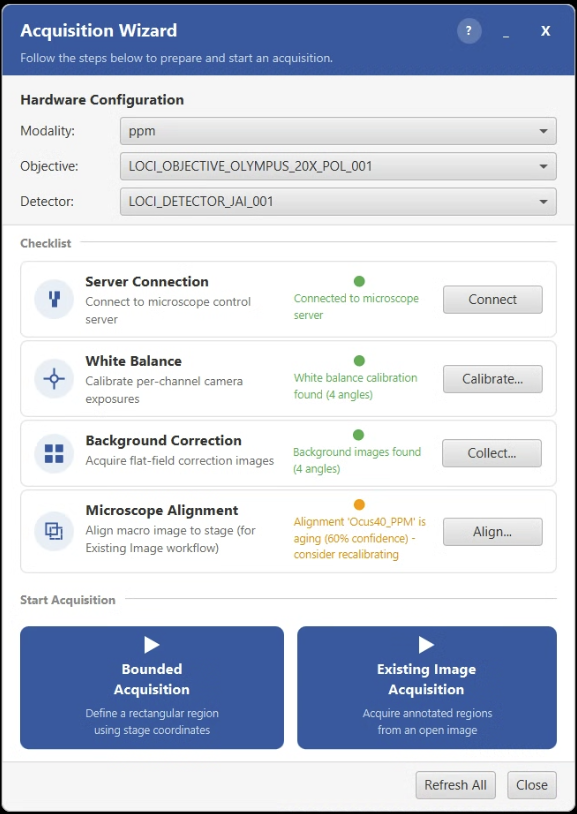
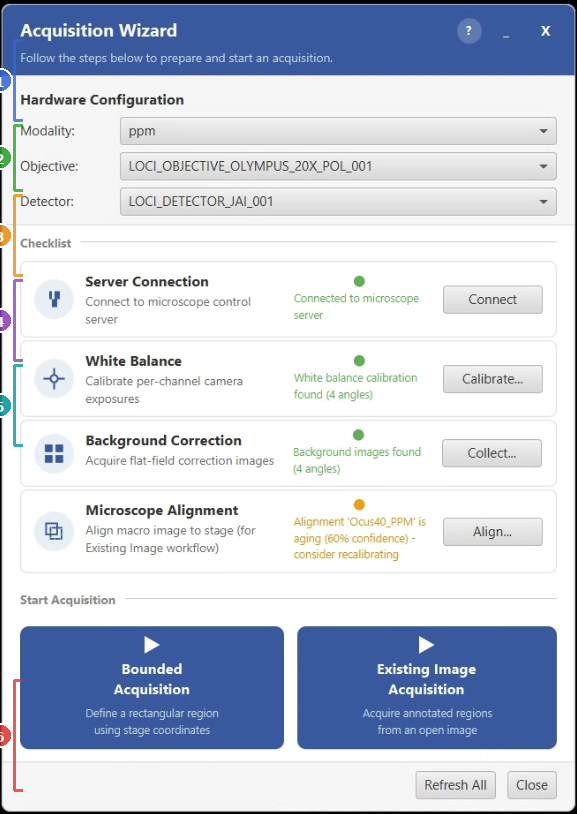
Add annotated screenshots with numbered sections/regions
Pillow-based annotation tool adds colored numbered markers to 4 key
dialog screenshots:
- Bounded Acquisition: 5 section brackets (Project, Hardware, Region, Advanced, Preview)
- Existing Image: 6 section brackets (Project, Hardware, Alignment, Refinement, Advanced, Preview)
- Acquisition Wizard: 6 section brackets (Hardware, Server, WB, Background, Alignment, Actions)
- Live Viewer: 5 region highlights with boxes (Toolbar, Image, Stage Control, Histogram, Status)

WORKFLOWS.md updated to reference section numbers inline.
Fixed image paths (../images/ -> images/).

Changed region(s): [[0.0, 0.0614, 0.0312, 0.5528], [0.0, 0.8292, 0.0312, 0.9828]]

diff --git a/documentation/WORKFLOWS.md b/documentation/WORKFLOWS.md
@@ -73,14 +73,14 @@ Go to *Extensions -> QP Scope -> Bounded Acquisition*.
 
 QPSC connects to the microscope server automatically. If the connection fails, you will see an error -- start the server and try again.
 
-![Bounded Acquisition dialog](images/Docs_BoundedAcquisition.png)
+![Bounded Acquisition dialog with numbered sections](images/Docs_BoundedAcquisition.png)
 
-**2. Configure sample and project.**
+**2. Configure sample and project (section 1).**
 
 - **Sample Name** -- Give your acquisition a name (e.g., "Kidney_Section_01"). This becomes the project folder name. Invalid characters and Windows reserved names are blocked automatically.
 - **Projects Folder** -- If no QuPath project is currently open, choose where to create one. If a project is already open, QPSC adds the new image to it.
 
-**3. Select hardware.**
+**3. Select hardware (section 2).**
 
 - **Modality** -- Choose the imaging mode (e.g., "ppm_20x" for polarized light, "bf_10x" for brightfield). The available options come from your YAML configuration.
 - **Objective** -- Filters based on the selected modality.
@@ -88,22 +88,20 @@ QPSC connects to the microscope server automatically. If the connection fails, y
 
 These selections determine the camera field of view, pixel size, and available rotation angles.
 
-**4. Define the acquisition region.**
+**4. Define the acquisition region (section 3).**
 
 Two input modes are available:
 
 - *Start Point + Size* -- Enter a starting X/Y position (in micrometers) and the width/height of the region. Click **Get Stage Position** to auto-fill the start coordinates from the current stage location.
 - *Two Corners* -- Enter the coordinates of two opposite corners of the rectangle.
 
-The dialog shows a real-time preview of the tile grid, including the number of tiles, estimated acquisition time, and storage size.
+**5. Configure white balance and advanced options (section 4).**
 
-**5. Configure white balance mode.**
+Select a white balance mode from the dropdown. Options depend on your camera and modality. For PPM with a JAI camera, "per_angle" is recommended. Expand the Advanced section to override individual rotation angles or exposure times.
 
-Select a white balance mode from the dropdown. Options depend on your camera and modality. For PPM with a JAI camera, "per_angle" is recommended.
+**6. Review the acquisition preview (section 5).**
 
-**6. (Optional) Adjust advanced settings.**
-
-Expand the Advanced section to override individual rotation angles or exposure times if needed for this specific acquisition.
+The bottom section shows the tile grid summary: number of tiles, estimated acquisition time, and storage size.
 
 **7. Click OK to start.**
 
@@ -116,7 +114,7 @@ QPSC will:
 - Automatically stitch tiles when acquisition finishes.
 - Add the stitched image to the QuPath project.
 
-![Acquisition progress dialog](../images/Docs_AcquisitionWorkflowProgress.png)
+![Acquisition progress dialog](images/Docs_AcquisitionWorkflowProgress.png)
 
 **8. Review the result.**
 
@@ -221,7 +219,7 @@ QPSC will:
 - Acquire tiles for each annotated region in sequence.
 - Stitch each region and add the result to the project.
 
-![Acquisition progress dialog](../images/Docs_AcquisitionWorkflowProgress.png)
+![Acquisition progress dialog](images/Docs_AcquisitionWorkflowProgress.png)
 
 **6. Review results.**
 
@@ -310,7 +308,7 @@ The menu item is only enabled when a macro image is available (either directly f
 
 A dialog asks which microscope/scanner produced the overview image. This selection determines where the alignment is saved and which hardware parameters are used.
 
-![Microscope selection dialog](../images/Docs_MicroscopeAlignment_SelectSourceMicroscope.png)
+![Microscope selection dialog](images/Docs_MicroscopeAlignment_SelectSourceMicroscope.png)
 
 **2. Configure sample details.**
 
@@ -393,7 +391,9 @@ These tools should be configured before your first acquisition. Most only need t
 
 A guided dashboard that checks all prerequisites and walks you through the setup process. It shows live status indicators for server connection, white balance calibration, background collection, and alignment. If anything is missing, click the step to launch the appropriate tool. When everything is green, launch Bounded Acquisition or Existing Image directly from the wizard.
 
-![Acquisition Wizard dashboard](../images/Docs_AcquisitionWizard.png)
+![Acquisition Wizard dashboard with numbered sections](images/Docs_AcquisitionWizard.png)
+
+The numbered sections are: **(1)** Hardware Configuration (modality, objective, detector), **(2)** Server Connection status, **(3)** White Balance calibration status, **(4)** Background Correction status, **(5)** Microscope Alignment status, and **(6)** Start buttons for Bounded Acquisition or Existing Image workflows. Click any section with a warning icon to launch the appropriate setup tool.
 
 Full documentation: [Acquisition Wizard](tools/acquisition-wizard.md)
 
@@ -403,7 +403,7 @@ Full documentation: [Acquisition Wizard](tools/acquisition-wizard.md)
 
 Configure and test the socket connection between QuPath and the microscope server. Set the host address and port, test connectivity, configure timeouts, and set up push notifications (via ntfy.sh) so you receive alerts when long acquisitions finish or fail.
 
-![Communication Settings dialog](../images/Docs_CommunicationSettings.png)
+![Communication Settings dialog](images/Docs_CommunicationSettings.png)
 
 Full documentation: [Communication Settings](tools/server-connection.md)
 
@@ -415,7 +415,7 @@ Captures flat-field correction images that remove uneven illumination from acqui
 
 Run this whenever you change objectives, detectors, or illumination settings.
 
-![Background Collection dialog](../images/Docs_BackgroundCollection.png)
+![Background Collection dialog](images/Docs_BackgroundCollection.png)
 
 Full documentation: [Background Collection](tools/background-collection.md)
 
@@ -430,7 +430,7 @@ Calibrate per-channel (R, G, B) exposure times for JAI 3-CCD prism cameras. Supp
 
 Results are saved to YAML and used automatically by Background Collection and acquisition workflows.
 
-![White Balance Calibration dialog](../images/Docs_WhiteBalanceCalibration.png)
+![White Balance Calibration dialog](images/Docs_WhiteBalanceCalibration.png)
 
 Full documentation: [White Balance Calibration](tools/white-balance-calibration.md)
 
@@ -440,7 +440,7 @@ Full documentation: [White Balance Calibration](tools/white-balance-calibration.
 
 Configure autofocus parameters for each objective lens: search range, step size, scoring method, and interpolation. Good autofocus settings are essential for consistent image quality during acquisition.
 
-![Autofocus Configuration Editor](../images/Docs_AutofocusConfigurationEditor.png)
+![Autofocus Configuration Editor](images/Docs_AutofocusConfigurationEditor.png)
 
 Full documentation: [Autofocus Editor](tools/autofocus-editor.md)
 
@@ -470,8 +470,11 @@ A live camera feed window with integrated stage controls. Use it to visually nav
 - Per-channel saturation monitoring.
 - Saved stage position management.
 
-![Live Viewer window](../images/Docs_LiveViewer.png)
-![Live Viewer position controls](../images/Docs_LiveViewer_Position.png)
+![Live Viewer window with numbered regions](images/Docs_LiveViewer.png)
+
+Regions: **(1)** Toolbar -- Live toggle, Refine Focus, Sweep Focus buttons, display scaling. **(2)** Live image feed from the camera. **(3)** Stage Control panel -- XY/Z position, virtual joystick, step size, saved points. **(4)** Histogram and contrast controls -- RGB means, min/max sliders, auto-scale. **(5)** Status bar -- connection state, frame rate.
+
+![Live Viewer position controls detail](images/Docs_LiveViewer_Position.png)
 
 Full documentation: [Live Viewer](tools/live-viewer.md)
 
@@ -481,7 +484,7 @@ Full documentation: [Live Viewer](tools/live-viewer.md)
 
 A visual bird's-eye view of the microscope stage insert showing slide positions and the current objective location. The map updates in real time as the stage moves. Double-click anywhere on the map to navigate the stage to that position. Use the dropdown to switch between insert configurations (single slide, multi-slide).
 
-![Stage Map window](../images/Docs_StageMap.png)
+![Stage Map window](images/Docs_StageMap.png)
 
 Full documentation: [Stage Map](tools/stage-map.md)
 
